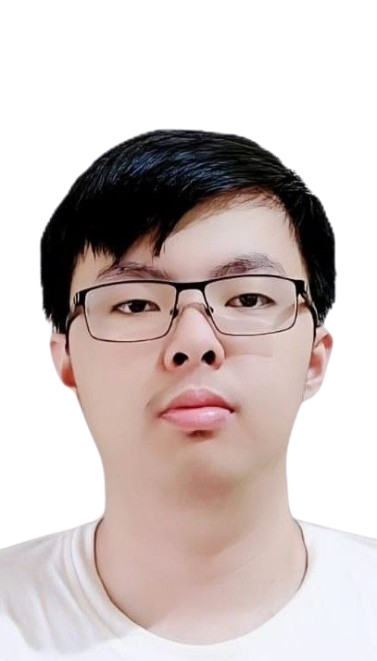
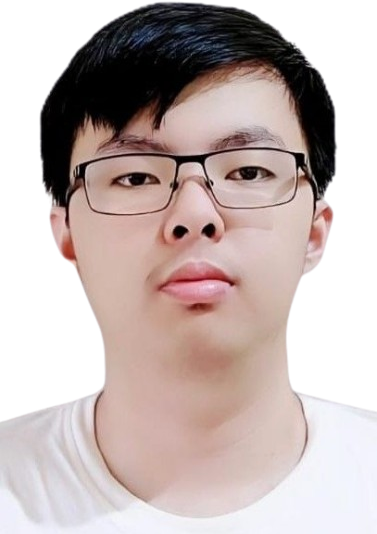
added css

diff --git a/index.html b/index.html
@@ -10,42 +10,64 @@
     <title>My Portfolio</title>
 </head>
 <body>
-        <div class="navbar">
-            <a href="#about">About</a>
-            <a href="#projects">Projects</a>
-            <a href="#contact">Contact</a>
-        </div>
-        <div class="header">
-            <div class="headtext">
-                <p class="Hello">Hello</p>
-                <p>- Hansel Christianto Johan</p>
-                <p class="scrollDown">Scroll down ↓</p>
+    <div class="navbar">
+        <a href="#home">Home</a>
+        <a href="#aboutMe">About Me</a>
+        <a href="#portfolio">Portfolio</a>
+        <a href="#contacts">Contacts</a>
+    </div> 
+    <div class="home" id="home">
+        <div class="textbox">
+            <div class="promo">
+                <div class="promobox">
+                    <p class="promonum">+5</p>
+                    <p class="promotxt">Projects</p>
+                </div>
+                <div class="promobox">
+                    <p class="promonum">+10</p>
+                    <p class="promotxt">Certificates</p>
+                </div>
             </div>
-            <img class="headimg" src="jtr.png" alt="">
-         </div>
-    
-    <div class="container">
-        <h2 id="about">About</h2>
-        <p>Lorem ipsum, dolor sit amet consectetur adipisicing elit. Deleniti iure repellendus officia reiciendis fuga nam nihil, ab provident mollitia vero dolorem ut ratione voluptatem minima, voluptate non molestias aspernatur a, assumenda pariatur sit necessitatibus! Cum harum delectus earum nam. Labore animi nobis eligendi. Earum sequi vitae excepturi modi fugit quidem.</p>
-        <br>
-        <h2 id="projects">Projects</h2>
-        <ul>
-            <a href="https://github.com/SSSalvan/O.M.G.A.M.M.A"><li>O.M.G.A.M.M.A</li></a>
-            <a href="https://github.com/Legocrocs/DAA-Project"><li>Parking with Djikstra</li></a>
-            <a href="https://hansel-j.github.io/Flexbox-exercise/"><li>Flexbox Exercise</li></a>
-            <a href="https://github.com/Expellar/UAS-OSLAB"><li>Basic OS</li></a>
-            <a href="https://github.com/Legocrocs/Java-game-project"><li>Java Game Project</li></a>
-        </ul>
-        <br>
-        <h2 id="contact">Contacts</h2>
-        <p>hanselcjohan1@gmail.com</p>
-        <br>
+            <div class="homemaintxt">
+                <p class="title">Hello</p>
+                <p>- <i>Software Dev</i> Hansel Christianto Johan</p>
+            </div>
+            <p class="scroll">↓ Scroll Down</p>
+        </div>
+        <div class="imgbox">
+            <img src="jtr.png" class="sPotrait">
+        </div>
     </div>
-    <div class="projects-container">
-
+    <div class="aboutMe" id="aboutMe">
+        <p class="sectionTitle">About Me</p>
+        <p>UPH <i>informatics</i> graduate with multiple certificates to show my drive to learn and explore the limitless possibilities in informatics</p>
     </div>
-    <div class="contact-container">
-        
+    <div class="portfolio" id="portfolio">
+        <p class="sectionTitle">Portfolio</p>
+        <div class="project-container">
+            <a href="https://github.com/SSSalvan/O.M.G.A.M.M.A"><div class="projectBox">
+                <p>O.M.G.A.M.M.A</p>
+            </div></a>
+            <a href="https://github.com/Legocrocs/DAA-Project"><div class="projectBox">
+                <p>Parking with Djikstra</p>
+            </div></a>
+            <a href="https://hansel-j.github.io/Flexbox-exercise/"><div class="projectBox">
+                <p>Flexbox Exercise</p>
+            </div></a>
+            <a href="https://github.com/Expellar/UAS-OSLAB"><div class="projectBox">
+                <p>Basic OS</p>
+            </div></a>
+            <a href="https://github.com/Legocrocs/Java-game-project"><div class="projectBox">
+                <p>Java Game Project</p>
+            </div></a>
+        </div>
+    </div>
+    <div class="contacts" id="contacts">
+        <p class="sectionTitle">Contact Me!</p>
+        <div class="contact-text">
+            <p>Let's get a project started by contacting me at</p>
+            <p><b>hanselcjohan1@gmail.com</b></p>
+        </div>
     </div>
 </body>
 </html>

diff --git a/style.css b/style.css
@@ -1,46 +1,101 @@
 :root{
-    box-sizing: border-box;
-    margin: 0;
-    padding: 0;
     font-family: 'Host Grotesk', sans-serif;
     color: hsl(0, 0%, 13%);
     background-color: hsl(0, 0%, 97%);
+}
+
+body{
+    margin: 0;
+    padding: 0;
 }
 
 a{
     color: hsl(0, 0%, 13%);
     text-decoration: none;
 }
-.navbar{
-    height: 2em;
-    width: 100%;
+p{
+    margin: 0;
 }
+.navbar{
+    display: flex;
+    gap: 1em;
+    padding: 0.4em;
+    height: 1em;
+}
+
 .home{
     display: flex;
-    flex-direction: column;
-    height: 100vh;
+    padding: 1em;
+    height: calc(100% - 1em);
+    justify-content: space-between;
 }
-.header{
-    display: flex;
-    flex-direction: row;
-    padding-left: 3em;
-    height: 100%;
-    width: 100%;
-}
-.headtext{
+.textbox{
     display: flex;
     flex-direction: column;
-    justify-content: center;
-    text-align: left;
+    justify-content: space-between;
+    padding: 2em;
     width: 50%;
 }
-
-.headimg{
-    filter: grayscale(0.7);
+.promo{
+    display: flex;
+    gap: 2em;
+    
+}
+.promonum{
+    font-size: calc(16px * 2);
+}
+.promotxt{
+    padding-left: 1em;
 }
 
-.Hello{
-    font-size: 10em;
+.title{
     font-weight: 100;
-    margin: 0;
+    font-size: calc(16px * 9);
+}
+.sPotrait{
+    filter: grayscale(0.7);
+    height: 103%;
+}
+
+.aboutMe{
+    background-color: hsl(0, 0%, 92%);
+    padding: 1em;
+}
+
+.sectionTitle{
+    font-size: calc(16px * 4);
+}
+
+.portfolio{
+    padding: 1em;
+}
+
+.project-container{
+    display: flex;
+    gap: 1em;
+    justify-content: space-between;
+}
+
+.projectBox{
+    display: flex;
+    height: 15em;
+    border: solid 1px black;
+    width: 12em;
+    border-radius: 5px;
+    justify-content: center;
+    align-items: center;
+}
+
+.contacts{
+    background-color: hsl(0, 0%, 92%);
+    padding: 1em;
+}
+
+.contact-text{
+    display: flex;
+    padding: 3em;
+    font-size: 2em;
+    flex-direction: column;
+    justify-content: center;
+    align-items: center;
 }
